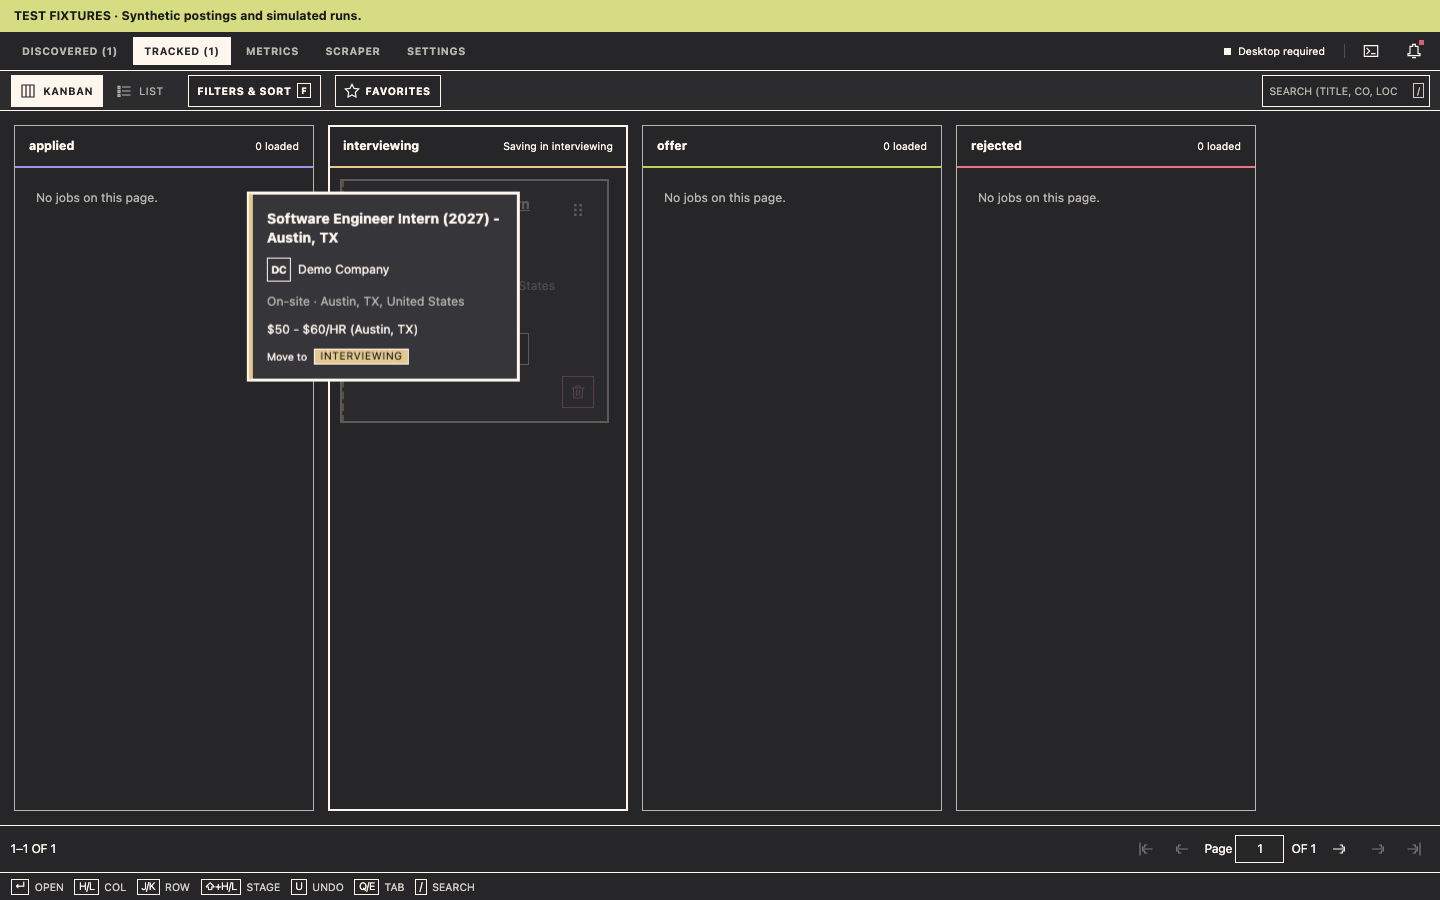
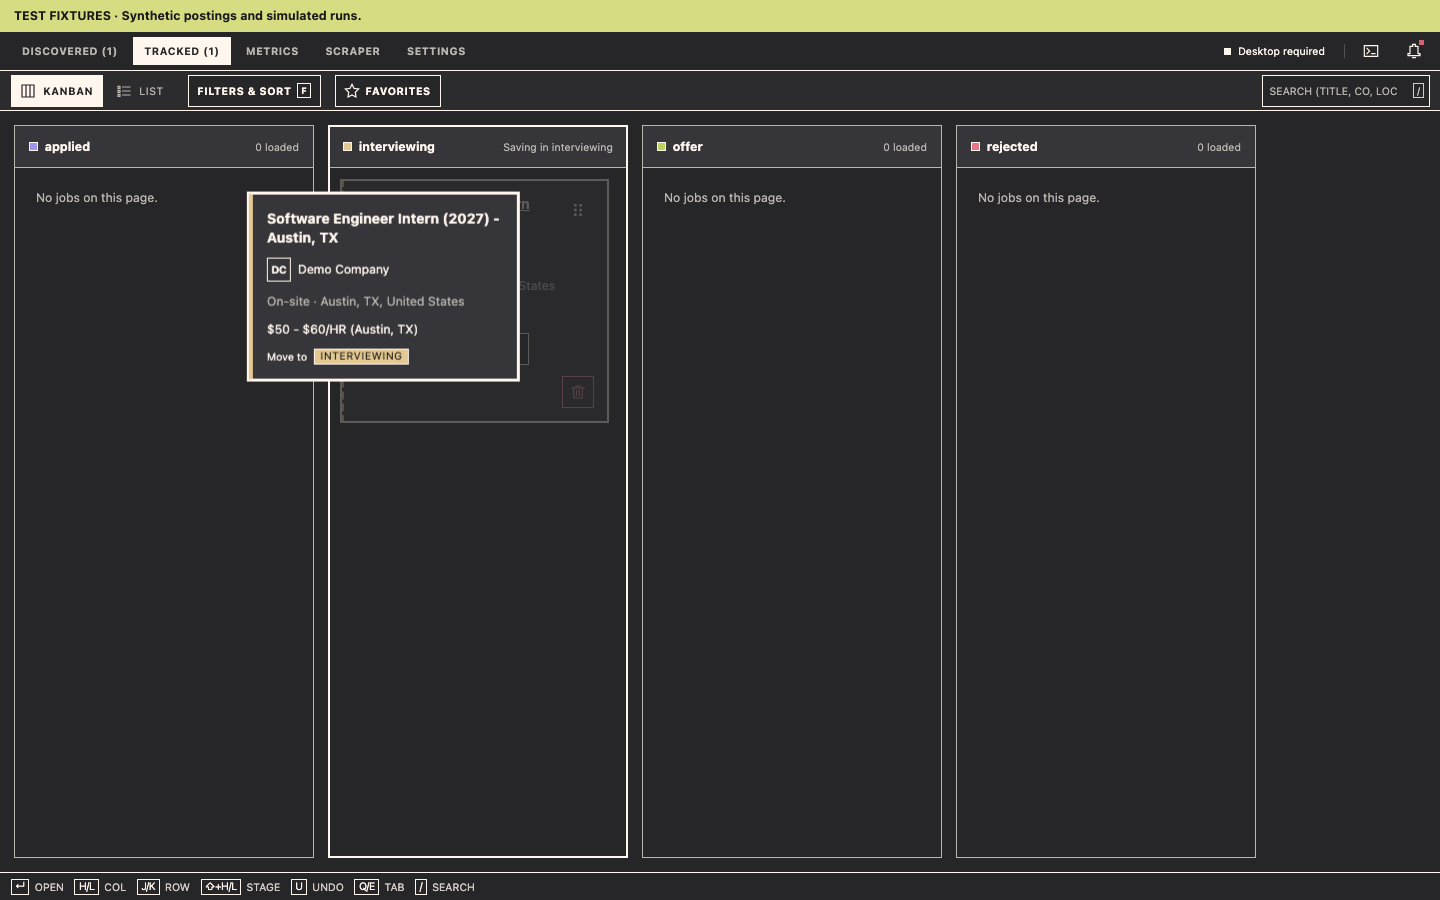
fix: remove paginator from kanban and improve lightmode header contrast
- Scope JobPaginator to discovered and tracked list views; remove it from Kanban
- Raise Kanban query capacity to 200 items so all active tracked applications load onto the board
- Redesign KanbanColumn header with raised surface (bg-[var(--color-surface-raised)]) and crisp 1px structural divider (border-b border-[var(--color-ink-mute)])
- Add ink-bordered stage swatch square (border border-[var(--color-ink)]) to clearly delineate stage colors in light mode
- Add --color-stage-accent-interviewing token with ink boundary in light mode for visible card left border
- Update kanban surface tests, contrast assertions, and visual review captures

diff --git a/src/test/kanban_surface_tokens.test.tsx b/src/test/kanban_surface_tokens.test.tsx
@@ -6,7 +6,10 @@ import { SystemSettings } from "../components/views/settings/SystemSettings";
 import { KanbanBoard } from "../components/views/tracked/KanbanBoard";
 import { KanbanColumn } from "../components/views/tracked/KanbanColumn";
 import { KanbanCard, KanbanCardPreview } from "../components/views/tracked/KanbanCard";
-import { DEFAULT_SETTINGS } from "../lib/api";
+import { api, DEFAULT_SETTINGS } from "../lib/api";
+import { useUIStore } from "../lib/store";
+import { QueryClient, QueryClientProvider } from "@tanstack/react-query";
+import App from "../App";
 import { recordedJobs } from "../lib/recordedJobs";
 import { useState } from "react";
 import type { Job } from "../bindings/Job";
@@ -92,7 +95,7 @@ describe("Section 8: Regional Settings and Kanban Surface Contracts", () => {
     ).toBeNull();
   });
 
-  it("renders KanbanColumn using semantic column surface and concise 'No jobs on this page.' empty state", () => {
+  it("renders KanbanColumn using raised header surface, structural 1px border, and concise 'No jobs on this page.' empty state", () => {
     const { container } = render(
       <KanbanColumn
         status="interviewing"
@@ -111,6 +114,18 @@ describe("Section 8: Regional Settings and Kanban Surface Contracts", () => {
     expect(section).toBeTruthy();
     expect(section?.className).toContain("bg-[var(--color-kanban-column)]");
 
+    // Header surface should be raised for clear contrast against column/board
+    const header = container.querySelector("header");
+    expect(header).toBeTruthy();
+    expect(header?.className).toContain("bg-[var(--color-surface-raised)]");
+    expect(header?.className).toContain("border-b");
+    expect(header?.className).toContain("border-[var(--color-ink-mute)]");
+
+    // Header should contain ink-bordered stage swatch
+    const swatch = header?.querySelector("span[aria-hidden='true']");
+    expect(swatch).toBeTruthy();
+    expect(swatch?.className).toContain("border-[var(--color-ink)]");
+
     // Header count shows 0 loaded
     expect(screen.getByText("0 loaded")).toBeTruthy();
 
@@ -121,10 +136,10 @@ describe("Section 8: Regional Settings and Kanban Surface Contracts", () => {
     ).toBeNull();
   });
 
-  it("renders KanbanCard with semantic card surface and drag preview with shared Tag", () => {
+  it("renders KanbanCard with semantic card surface, interviewing accent, and drag preview with shared Tag", () => {
     const { container } = render(
       <KanbanCard
-        job={sampleJob}
+        job={{ ...sampleJob, status: "interviewing" }}
         title={<span>{sampleJob.title}</span>}
       />
     );
@@ -132,6 +147,7 @@ describe("Section 8: Regional Settings and Kanban Surface Contracts", () => {
     const card = container.querySelector("article");
     expect(card).toBeTruthy();
     expect(card?.className).toContain("bg-[var(--color-kanban-card)]");
+    expect(card?.style.borderLeftColor).toBe("var(--color-stage-accent-interviewing)");
 
     // Card preview should use shared Tag component
     cleanup();
@@ -141,5 +157,37 @@ describe("Section 8: Regional Settings and Kanban Surface Contracts", () => {
     // Shared Tag renders uppercase label in a font-mono tag with border
     expect(screen.getByText("APPLIED")).toBeTruthy();
     expect(screen.getByText("Move to")).toBeTruthy();
+  });
+
+  it("hides JobPaginator on Tracked Kanban board and displays it on Tracked List", async () => {
+    useUIStore.setState({ view: "tracked", trackedViewMode: "kanban" });
+    vi.spyOn(api, "getSettings").mockResolvedValue({ ...DEFAULT_SETTINGS, app_auto_update: false });
+    vi.spyOn(api, "listJobs").mockImplementation(async (filter) => {
+      if (filter?.limit === 1) return { items: [], total: 0n, limit: 1n, offset: 0n };
+      return { items: [], total: 0n, limit: 200n, offset: 0n };
+    });
+    vi.spyOn(api, "countUnreadNotifications").mockResolvedValue(0);
+    const client = new QueryClient({ defaultOptions: { queries: { retry: false } } });
+    const user = userEvent.setup();
+
+    render(
+      <QueryClientProvider client={client}>
+        <App />
+      </QueryClientProvider>
+    );
+
+    // Wait for boot sequence to finish and Kanban board to appear
+    await screen.findByRole("region", { name: "APPLIED stage" });
+
+    // In Kanban mode, the bottom JobPaginator navigation should NOT be present
+    expect(screen.queryByRole("navigation", { name: "Job pagination" })).toBeNull();
+    expect(screen.queryByText(/0-0 OF 0/i)).toBeNull();
+
+    // Switch to List mode via SubNav button
+    const listBtn = screen.getByRole("button", { name: "LIST" });
+    await user.click(listBtn);
+
+    // In List mode, JobPaginator should be mounted
+    expect(await screen.findByRole("navigation", { name: "Job pagination" })).toBeTruthy();
   });
 });

diff --git a/src/components/views/tracked/KanbanColumn.tsx b/src/components/views/tracked/KanbanColumn.tsx
@@ -51,11 +51,18 @@ export function KanbanColumn({
       aria-label={`${config.label} stage`}
       className={`flex flex-col h-full overflow-hidden border border-[var(--color-ink-mute)] bg-[var(--color-kanban-column)] ${isOver ? "outline outline-2 outline-[var(--color-focus)] outline-offset-[-2px]" : ""}`}
     >
-      <header style={{ borderBottomColor: config.stageAccent }} className="min-h-12 shrink-0 px-4 py-3 border-b-2 bg-[var(--color-kanban-column)] flex items-center justify-between gap-2">
-        <h3 className="font-bold text-sm normal-case">
-          {config.label.toLowerCase()}
-        </h3>
-        <span className="text-xs" aria-live="polite">{isOver ? `${dropPending ? "Saving in" : "Drop in"} ${config.label.toLowerCase()}` : `${jobs.length} loaded`}</span>
+      <header className="min-h-12 shrink-0 px-4 py-3 border-b border-[var(--color-ink-mute)] bg-[var(--color-surface-raised)] flex items-center justify-between gap-2">
+        <div className="flex items-center gap-2">
+          <span
+            className="w-2.5 h-2.5 border border-[var(--color-ink)] shrink-0"
+            style={{ backgroundColor: config.bg }}
+            aria-hidden="true"
+          />
+          <h3 className="font-bold text-sm normal-case">
+            {config.label.toLowerCase()}
+          </h3>
+        </div>
+        <span className="text-xs text-[var(--color-ink-mute)]" aria-live="polite">{isOver ? `${dropPending ? "Saving in" : "Drop in"} ${config.label.toLowerCase()}` : `${jobs.length} loaded`}</span>
       </header>
       <div data-stage-scroll className="flex-1 overflow-y-auto p-3 flex flex-col gap-3">
         {!jobs.length ? (

diff --git a/src/App.tsx b/src/App.tsx
@@ -52,13 +52,15 @@ export default function App() {
     };
   }, [queryClient]);
 
+  const trackedViewMode = useUIStore(state => state.trackedViewMode);
+  const isKanban = view === "tracked" && trackedViewMode === "kanban";
   const dataRevision = useUIStore(state => state.dataRevision);
-  const pageKey = JSON.stringify({ view, filterSpec, dataRevision });
+  const pageKey = JSON.stringify({ view, filterSpec, dataRevision, trackedViewMode });
   const [pageState, setPageState] = useState({ key: pageKey, page: 1 });
   const page = pageState.key === pageKey ? pageState.page : 1;
   if (pageState.key !== pageKey) setPageState({ key: pageKey, page: 1 });
-  const pageSize = 50;
-  const offset = pagination(undefined, page, pageSize).offset;
+  const pageSize = isKanban ? 200 : 50;
+  const offset = isKanban ? 0 : pagination(undefined, page, pageSize).offset;
   useLayoutEffect(() => {
     useUIStore.setState({ selectedJobId: null, drawerJobId: null, selectedJobIds: [] });
   }, [pageKey, page]);
@@ -395,7 +397,7 @@ export default function App() {
         />
       )}
 
-      {(view === "discovered" || view === "tracked") && <JobPaginator page={page} pageSize={pageSize} total={total} busy={jobsFetching} onPageChange={requested => setPageState({ key: pageKey, page: requested })} />}
+      {(view === "discovered" || (view === "tracked" && trackedViewMode === "list")) && <JobPaginator page={page} pageSize={pageSize} total={total} busy={jobsFetching} onPageChange={requested => setPageState({ key: pageKey, page: requested })} />}
 
       {view === "metrics" && <MetricsView />}
 

diff --git a/src/components/views/tracked/KanbanCard.tsx b/src/components/views/tracked/KanbanCard.tsx
@@ -17,7 +17,7 @@ export function KanbanCard({ job, title, actions, children, footer, id, selected
   placeholder?: boolean;
   preview?: boolean;
 }) {
-  const accent = STATUS_CONFIG[job.status]?.stageAccent;
+  const accent = job.status === "interviewing" ? "var(--color-stage-accent-interviewing)" : STATUS_CONFIG[job.status]?.stageAccent;
   return <article id={id} aria-hidden={preview || undefined}
     className={`border border-l-4 p-4 grid gap-3 select-text bg-[var(--color-kanban-card)] ${selected ? "outline outline-2 outline-[var(--color-focus)] outline-offset-[-2px]" : ""} ${placeholder ? "opacity-25 border-dashed" : ""} ${preview ? "pointer-events-none outline outline-2 outline-[var(--color-ink)]" : ""}`}
     style={{ borderLeftColor: accent, ...(preview ? { backgroundColor: "var(--color-kanban-card)" } : {}) } as CSSProperties}>

diff --git a/src/styles/index.css b/src/styles/index.css
@@ -14,6 +14,7 @@
   --color-unread: #7566BA;
   --color-stage-applied: var(--palette-lavender);
   --color-stage-interviewing: var(--palette-cream);
+  --color-stage-accent-interviewing: var(--palette-ink);
   --color-stage-offer: var(--palette-lime);
   --color-stage-rejected: var(--palette-cherry);
   --color-stage-label: var(--palette-ink);
@@ -76,6 +77,7 @@
   --color-unread: #C6C2F2;
   --color-stage-applied: #9E95EA;
   --color-stage-interviewing: #E4C891;
+  --color-stage-accent-interviewing: #E4C891;
   --color-stage-offer: #BBD05D;
   --color-stage-rejected: #E87585;
   --color-stage-label: #1A1A1A;

diff --git a/plans/11-implementation-evidence.md b/plans/11-implementation-evidence.md
@@ -997,17 +997,23 @@ Implemented behavior:
 3. **Shared Semantic Stage Accents & Tokens**:
    - Applied lavender (`#C6C2F2`), Interviewing cream with ink boundary (`#FFF6EE` bg with ink border), Offer lime (`#D6DC82`), Rejected cherry (`#D86072`).
    - Drag preview (`KanbanCardPreview` in `KanbanCard.tsx`) updated to render the shared `<Tag status={job.status} />` component, ensuring uniform stage accents across tags, list, inspector, and drag preview.
-4. **Concise Page-Scope Messaging**:
+4. **Concise Page-Scope Messaging & Paginator Scoping**:
    - Removed repeated page-scope paragraphs from `KanbanBoard` (`Showing applications on this page. Stage counts describe loaded jobs.`).
+   - Scoped `JobPaginator` in `App.tsx` to render strictly on `discovered` or `tracked (list)` view modes, completely removing the awkward "0-0 OF 0" bottom table bar from `KanbanBoard`.
+   - Raised Kanban query capacity to 200 items (`pageSize: 200, offset: 0`) so users see all active tracked applications across stages without arbitrary pagination boundaries.
    - Preserved concise `{jobs.length} loaded` indicators in column headers (`KanbanColumn.tsx`).
    - Simplified empty column messaging to `"No jobs on this page."` (`KanbanColumn.tsx`).
-5. **Accessible Contracts & Contrast Verification**:
+5. **Theme-Friendly Kanban Column Header & Card Surface Enhancements**:
+   - Column header upgraded to raised surface `bg-[var(--color-surface-raised)]` (`#E6E2C8` on Paper, `#36363a` on Obsidian) with a crisp 1px structural divider `border-b border-[var(--color-ink-mute)]`.
+   - Replaced washed-out pastel lines with an authentic stage indicator swatch square with a 1px ink border (`border border-[var(--color-ink)]`) next to each stage title, ensuring high contrast in light mode (including cream `#FFF6EE`).
+   - Added `--color-stage-accent-interviewing` (`var(--palette-ink)` on Paper, `#E4C891` on Obsidian) so interviewing cards have a clearly visible 4px left accent border on cream card surfaces.
+6. **Accessible Contracts & Contrast Verification**:
    - All text surfaces maintain >= 4.5:1 text contrast against rendered card/column/board backgrounds in both Paper and Obsidian themes.
    - Focus rings and interactive controls maintain >= 3:1 contrast.
    - Full WAI keyboard movement, selection, screen-reader instructions, and 200% browser zoom operability verified.
-   - Expanded `src/test/theme_contrast.test.ts` (44 assertions) and authored `src/test/kanban_surface_tokens.test.tsx` (4 assertions).
-6. **Reviewed Visual QA Artifacts**:
-   - `plans/assets/11-kanban-review/kanban-paper.png`: Paper theme Kanban board showing Paper surfaces, cream cards, stage accents, and concise headers.
+   - Expanded `src/test/theme_contrast.test.ts` (44 assertions) and authored `src/test/kanban_surface_tokens.test.tsx` (5 assertions).
+7. **Reviewed Visual QA Artifacts**:
+   - `plans/assets/11-kanban-review/kanban-paper.png`: Paper theme Kanban board showing Paper surfaces, raised header surfaces with ink-bordered stage swatches, cream cards, stage accents, concise headers, and clean board layout without bottom table paginator.
    - `plans/assets/11-kanban-review/kanban-obsidian.png`: Obsidian theme Kanban board showing dark surfaces, elevated cards, and high-contrast stage tags.
 
 Verification actually run in this workspace:
@@ -1018,12 +1024,12 @@ Verification actually run in this workspace:
 - `cargo test -p scrape --test worker_repository`: **12 passed / 0 failed** in 1.17s.
 - `npm run gen:types && git diff --exit-code src/bindings`: passed with 0 drift.
 - `npx tsc --noEmit`: passed with 0 errors.
-- `npm test` (`vitest run && node scripts/test-app-startup.mjs`): **496 passed across 79 test files** in 12.60s + Vite dev server startup smoke clean.
-- `npm run build`: passed (Vite production bundle built in 4.98s).
+- `npm test` (`vitest run && node scripts/test-app-startup.mjs`): **497 passed across 79 test files** in 10.51s + Vite dev server startup smoke clean.
+- `npm run build`: passed (Vite production bundle built in 5.41s).
 - `node scripts/check-style.mjs`: passed (Production style guard passed, 0 violations).
 - `git diff --check`: passed with zero whitespace or line ending issues.
-- `PLAYWRIGHT_BROWSERS_PATH=/tmp/scrape-playwright-browsers npx playwright test e2e/kanban.pw.ts`: **2 passed / 0 failed** in 11.2s (paper and obsidian pointer journeys, 0 contrast failures, review screenshots saved to `plans/assets/11-kanban-review/`).
-- `PLAYWRIGHT_BROWSERS_PATH=/tmp/scrape-playwright-browsers npx playwright test e2e/themed-selects.pw.ts`: **4 passed / 0 failed** in 10.9s (paper 480px/1280px, obsidian 480px/1280px with both Date and Time format selects).
+- `PLAYWRIGHT_BROWSERS_PATH=/tmp/scrape-playwright-browsers npx playwright test e2e/kanban.pw.ts`: **2 passed / 0 failed** in 8.3s (paper and obsidian pointer journeys, 0 contrast failures, review screenshots saved to `plans/assets/11-kanban-review/`).
+- `PLAYWRIGHT_BROWSERS_PATH=/tmp/scrape-playwright-browsers npx playwright test e2e/job-layout.pw.ts e2e/themed-selects.pw.ts`: **9 passed / 0 failed** in 15.3s.
 - `PLAYWRIGHT_BROWSERS_PATH=/tmp/scrape-playwright-browsers npx playwright test e2e/zoom.pw.ts`: **1 passed / 0 failed** in 10.8s (both themes operable at actual 200% browser zoom).
 - `npm run test:providers`: **8 checks / 0 errors** (SEP/Lever: 8 verified; Linear/Ashby: 31 verified; Bitwarden/Greenhouse: 39 verified; Google/Selector: 20 verified; Apple/Selector: 20 verified; Netflix/Script: 10 verified; Amazon/Script: 10 verified; Meta: 0 verified, client SPA shell verified).
 - `cargo build -p scrape && npm run test:native`: passed (native artifacts: `/var/folders/kr/lz4p6cgs18s4583cskq0xjs80000gn/T/scrape-native-smoke-az1RYr`).
